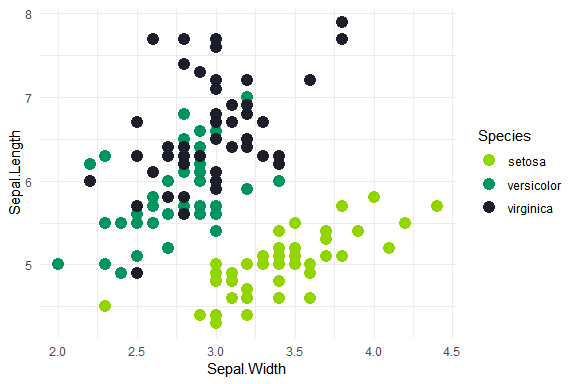
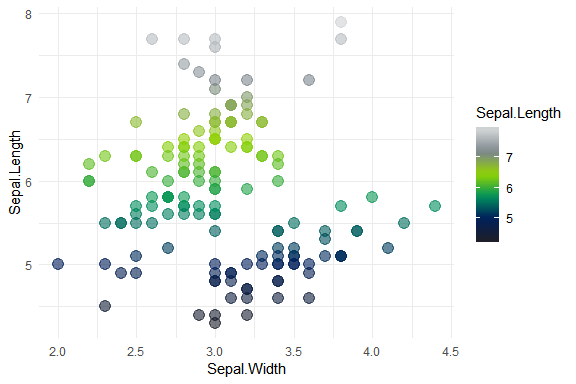
update palette preview and readme

diff --git a/README.md b/README.md
@@ -28,19 +28,20 @@ measure_palette("secondary", reverse = TRUE)(4)
 ## [1] "#EFF0F1" "#C8CCCF" "#A1A9AD" "#7B868C"
 ```
 
+
 #### Preview your color palettes
 
 ``` r
-glimpse_colors(measure_palette("mixed")(25))
+mixed <- measure_palette_preview()
+primary <- measure_palette_preview(palette = "primary")
+dark <- measure_palette_preview(palette = "dark")
+tertiary <- measure_palette_preview(palette = "tertiary")
+accent <- measure_palette_preview(palette = "accent", n = 15)
+green <- measure_palette_preview(palette = "green", n = 15)
+mixed + primary + dark + tertiary + accent + green + plot_layout(ncol = 2)
 ```
 
-![](README_files/figure-markdown_github/unnamed-chunk-4-1.png)
-
-``` r
-glimpse_colors(measure_palette("accent")(25))
-```
-
-![](README_files/figure-markdown_github/unnamed-chunk-4-2.png)
+![](README_files/figure-markdown_github/unnamed-chunk-5-1.png)
 
 #### Plot!
 
@@ -50,7 +51,7 @@ ggplot(iris, aes(Sepal.Width, Sepal.Length, color = Sepal.Length)) +
     scale_color_measure(discrete = FALSE, palette = "mixed", reverse = TRUE)
 ```
 
-![](README_files/figure-markdown_github/unnamed-chunk-5-1.png)
+![](README_files/figure-markdown_github/unnamed-chunk-6-1.png)
 
 ``` r
 ggplot(iris, aes(Sepal.Width, Sepal.Length, color = Species)) +
@@ -58,7 +59,7 @@ ggplot(iris, aes(Sepal.Width, Sepal.Length, color = Species)) +
    scale_color_measure(palette = "primary", reverse = FALSE)
 ```
 
-![](README_files/figure-markdown_github/unnamed-chunk-6-1.png)
+![](README_files/figure-markdown_github/unnamed-chunk-7-1.png)
 
 ### Credits
 
